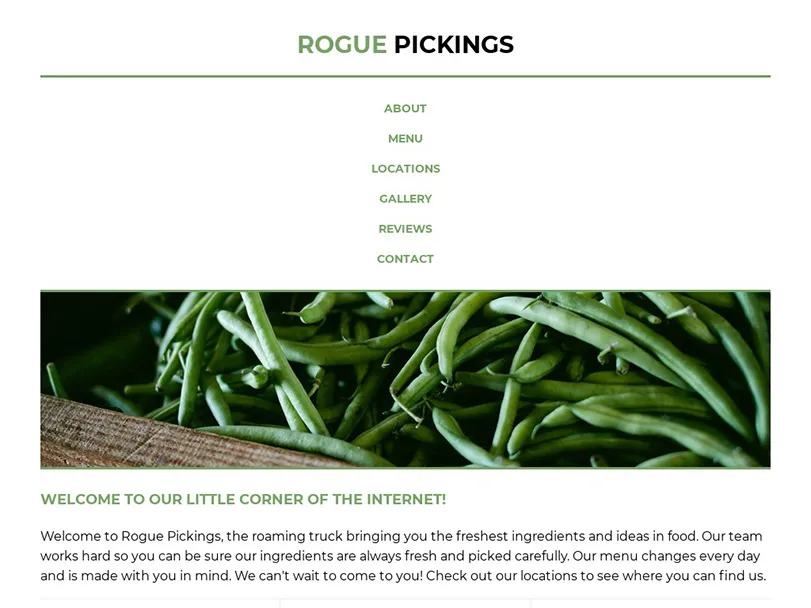
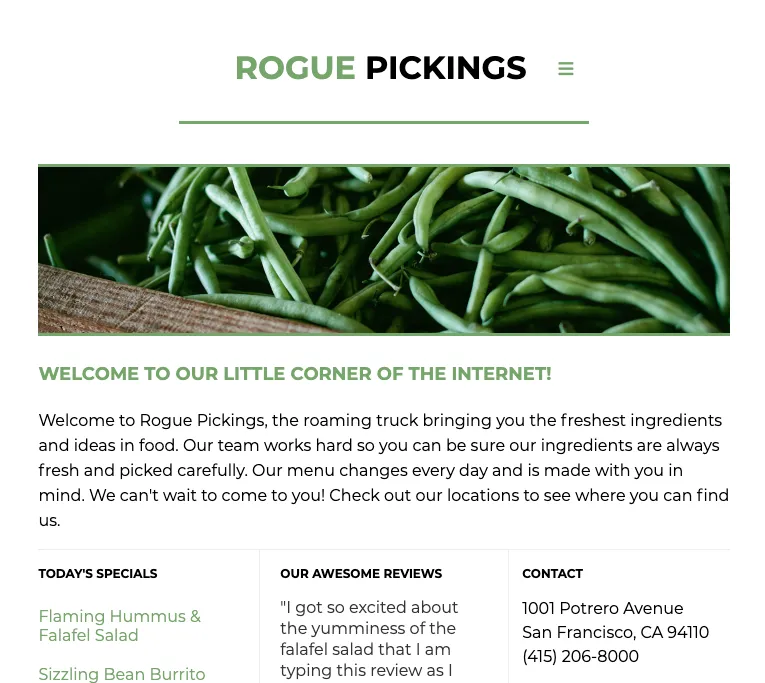
Text edits, image swaps

diff --git a/index.html b/index.html
@@ -58,8 +58,8 @@
                     
                     <div class="portfolio-text-block">
                         <h3>Ronin Martial Arts Academy</h3>
-                        <h4>Multi-page Responsive Business Site</h4>
-                        <p>This is a site that was overhauled for a client running a Martial Arts studio. I was hired to bring a more modern and visually pleasing experience, especially on small screens, for potential students visiting the site to increase site traffic and bring in new business. I updated the fonts, color, layouts, all with subtle nods to the <a href="https://drive.google.com/file/d/1p018Rny6SFv4SCi1frGoLCF4syDitG98/view?usp=sharing" target="_blank" rel="noopener"><span>original version of the site.</span></a> Requested features included are buttons that populate emails to schedule classes, a new events page to highlight promotions, a new gallery page, and a sliding gallery on the main page displaying class options.</p>
+                        <h4>Multi-page Responsive Business Site Design</h4>
+                        <p>This is a site that was overhauled for a Martial Arts studio. I was hired to design a more modern and visually pleasing experience, on all screen sizes, to increase site traffic and bring in new business. I updated the fonts, color, layouts, all with subtle nods to the <a href="https://drive.google.com/file/d/1p018Rny6SFv4SCi1frGoLCF4syDitG98/view?usp=sharing" target="_blank" rel="noopener"><span>original version of the site.</span></a> Requested re-designs included a new events page to highlight promotions, a new gallery page, and a sliding gallery on the main page displaying class options.</p>
                     </div>
 
                     <a href="https://www.roninmaa.com" target="_blank" rel="noopener">
@@ -79,9 +79,9 @@
                     </a>
 
                     <div class="portfolio-text-block">
-                        <h3>My WordPress Blog</h3>
+                        <h3>Accelerate Marketing</h3>
                         <h4>Custom Themed WordPress and PHP</h4>
-                        <p>Bacon ipsum dolor amet jerky filet mignon short ribs fatback t-bone corned beef. Porchetta prosciutto picanha tri-tip capicola ham hock flank meatball. Salami pig venison beef ribs, shankle meatball ham hock spare ribs flank pork belly corned beef cupim biltong. Turducken frankfurter cow capicola. Landjaeger ham andouille, pancetta beef ribs pork loin ham hock jerky. Chicken chuck alcatra, burgdoggen bacon pig porchetta fatback pork loin. Chuck frankfurter tongue pork chop tenderloin fatback alcatra swine.</p>
+                        <p>This is a Wordpress site with an eye-catching homepage equipped with featured work, blog entries, and a social media feed. There are custom pages and post types throughout the site. This includes a contact page that contains a great contact form and also a newsletter sign-up.</p>
                     </div>
 
                     <div class="portfolio-text-block left-side-text">

diff --git a/rogue-pickings-responsive/index.html b/rogue-pickings-responsive/index.html
@@ -3,17 +3,43 @@
     <head>
         <meta charset="utf-8">
         <meta http-equiv="x-ua-compatible" content="ie=edge">
-        <title>Rogue Pickings</title>
+        <title>Rogue Pickings | Brush Up Those Skills!</title>
         <meta name="viewport" content="width=device-width, initial-scale=1, shrink-to-fit=no">
         <link rel="stylesheet" href="css/normalize.css">
         <link rel="stylesheet" href="css/main.css">
         <link href="https://fonts.googleapis.com/css?family=Montserrat:400,700" rel="stylesheet">
+        <script src="https://kit.fontawesome.com/f95b13903c.js" crossorigin="anonymous"></script>
     </head>
     <body>
         <div class="container">
             <header>
-                <h1><span>rogue</span> pickings</h1>
-                <nav>
+                <h1 class="large-screen"><span>rogue</span> pickings</h1>
+
+                <!-- Mobile/Tablet Navigation Menu -->
+                <div class="topnav">
+                    <div class="mobile-nav">
+                        <a href="#home" class="active">
+                            <h1><span>rogue</span> pickings</h1>
+                        </a>
+                        <!-- "Hamburger menu" / "Bar icon" to toggle the navigation links -->
+                        <a href="javascript:void(0);" class="icon" onclick="myFunction()">
+                            <i class="fas fa-bars"></i>
+                        </a>
+                    </div>
+                    
+
+                    <!-- Navigation links (hidden by default) -->
+                    <div id="hamburger-links">
+                        <a href="#about">About</a>
+                        <a href="#menu">Menu</a>
+                        <a href="#locations">Locations</a>
+                        <a href="#gallery">Gallery</a>
+                        <a href="#reviews">Reviews</a>
+                        <a href="#contact">Contact</a>
+                    </div>
+                </div>
+
+                <nav class="large-screen">
                     <ul>
                         <li>
                             <a href="">About</a>
@@ -66,5 +92,17 @@
                 <h4>Powered by lots of <span>fresh</span> ingredients.</h4>
             </footer>
         </div>
+
+        <script>
+            /* Toggle between showing and hiding the navigation menu links when the user clicks on the hamburger menu / bar icon */
+            function myFunction() {
+            let x = document.getElementById("hamburger-links");
+            if (x.style.display === "block") {
+                x.style.display = "none";
+            } else {
+                x.style.display = "block";
+              }
+            }
+        </script>
     </body>
 </html>

diff --git a/rogue-pickings-responsive/css/main.css b/rogue-pickings-responsive/css/main.css
@@ -12,16 +12,20 @@ body {
 	display: flex;
 	justify-content: center;
 	align-items: center;
-	font-size: 1em;
+	
 }
 
-.container{
+.container {
 	max-width: 1200px;
 	width: 90%;
 	display: flex;
 	justify-content: center;
 	align-items: center;
 	flex-flow: row wrap;
+}
+
+.large-screen {
+	display: none;
 }
 
 h1,
@@ -69,7 +73,6 @@ header {
 header h1 {
 	margin: 0;
 	padding: 38px 20px 20px 20px;
-	border-bottom: 3px solid #77a466;
 	width: 100%;
 }
 header h1 span {
@@ -95,6 +98,49 @@ header nav ul li a{
 	text-decoration: none;
 	color:#77a466;
 }
+
+/**** Hamburger Menu ****/
+
+.topnav {
+	overflow: hidden;
+	position: relative;
+	padding-bottom: 40px;
+}
+
+.topnav .mobile-nav {
+	display: flex;
+	align-items: center;
+	border-bottom: 3px solid #77a466;
+}
+
+.topnav #hamburger-links {
+	display: none;
+}
+
+.topnav a {
+  color: #77a466;
+  padding: 14px 16px;
+  text-decoration: none;
+  font-size: 17px;
+  display: block;
+}
+
+.topnav a.icon { /*come back*/
+	display: block;
+	height: 0;
+}
+
+/* Add a grey background color on mouse-over COME BACK*/
+#hamburger-links a:hover {
+	background-color: whitesmoke;
+	color: #77a466; 
+  }
+
+  /* Style the active link (or home/logo) COME BACK */
+/*.active {
+	background-color: #4CAF50;
+	color: white;
+}*/
 
 /*The widths are in a percentage!*/
 .top-section,
@@ -189,6 +235,14 @@ footer span {
 
 @media only screen and (min-width: 1200px) {
 
+	.large-screen {
+		display: block;
+	}
+
+	.topnav {
+		display: none;
+	}
+
 	/*The widths are in a percentage!*/
 	header { 
 		justify-content: space-between;
@@ -203,6 +257,7 @@ footer span {
 		border-bottom: none;
 		text-align: left;
 	}
+
 	header h1 span {
 		color: #77a466;
 	}

diff --git a/css/main.css b/css/main.css
@@ -66,7 +66,7 @@ header h1 {
 }
 
 .header-divider {
-    background: #fa0075;
+    background: #FA00C3;
     height: 1px;
 }
 
@@ -78,10 +78,6 @@ header h1 {
 
 .icon {
     color: white;
-}
-
-.icon:hover {
-    color: #FA00C3;
 }
 
 #nav {
